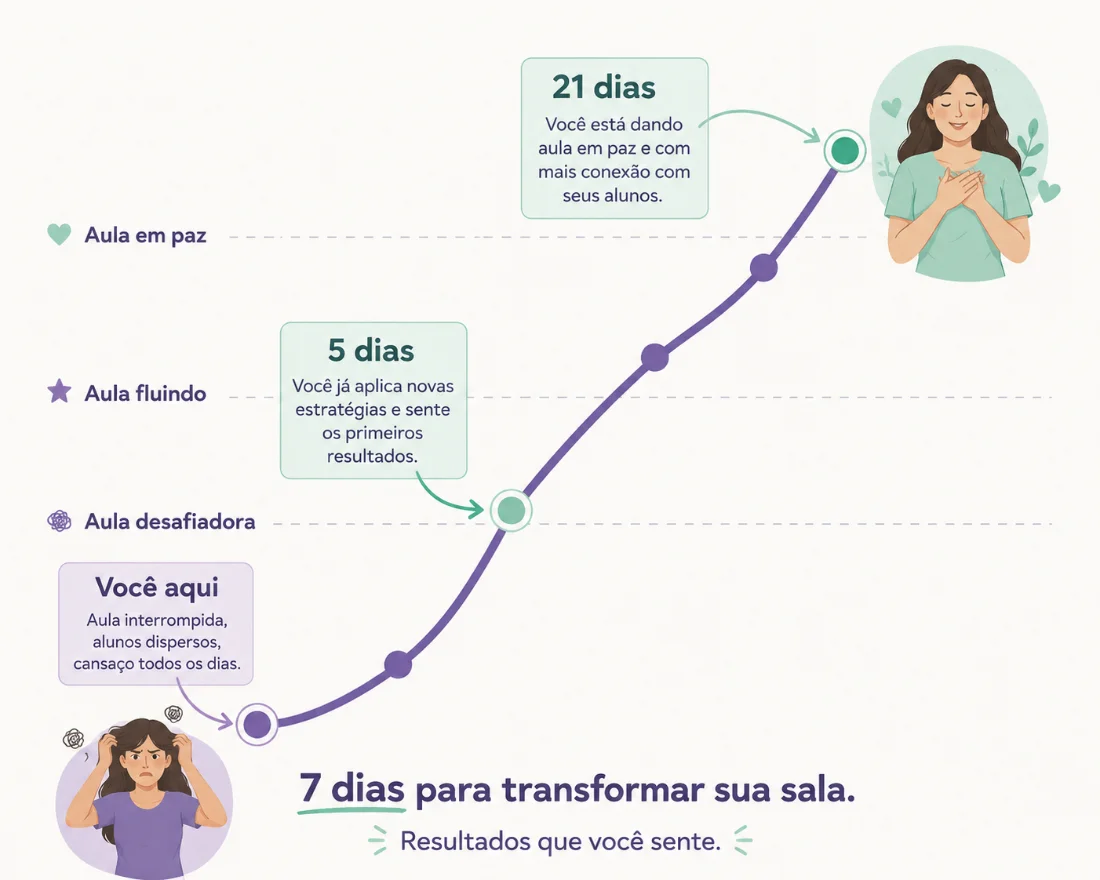
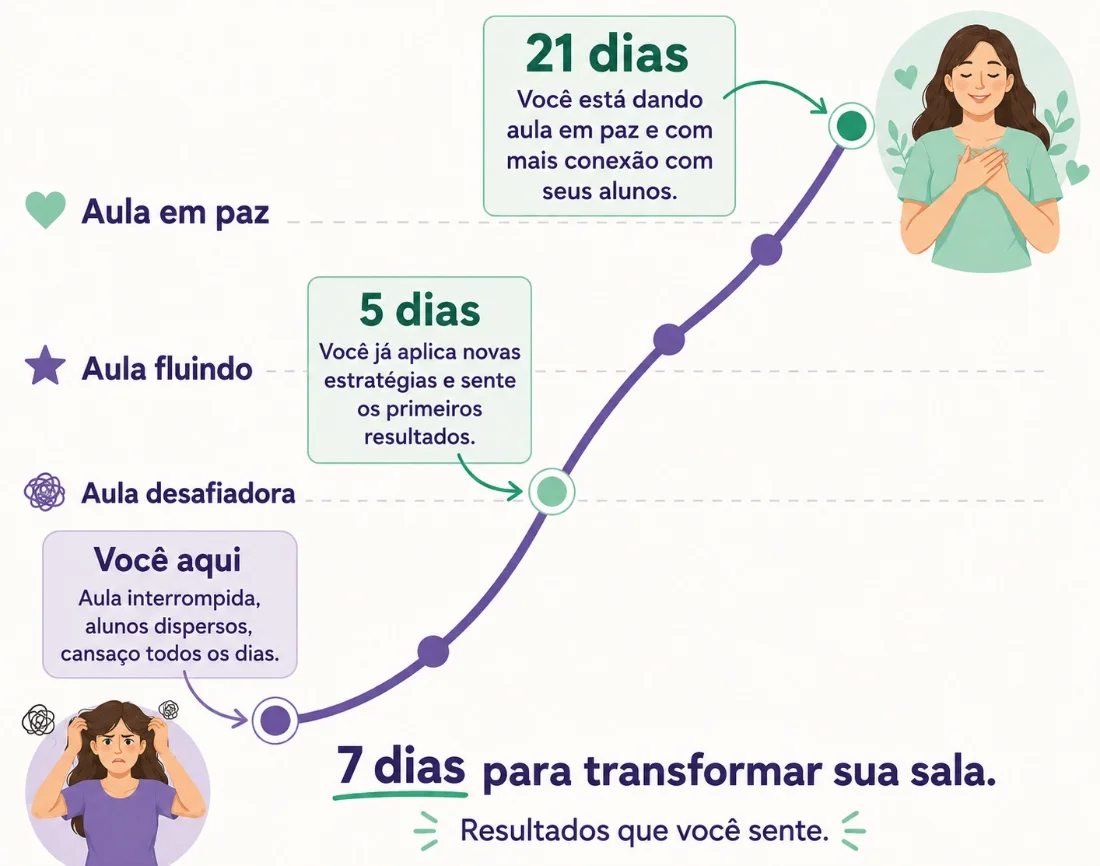
Update value stack section and fix pricing visibility
- Rewrite "O que está incluso" pillars with benefit checklists and
  closing statements for both the 50+ aulas and 27 situações offers
- Replace iceberg and 7-days timeline infographics with refreshed
  versions (foto-9a, foto-11a)
- Fix invisible price text in the receipt/anchoring section (was
  inheriting light text color from the dark section background)

diff --git a/index.html b/index.html
@@ -69,6 +69,7 @@
     text-wrap:balance;
     font-weight:700;
   }
+  h1,h2{text-align:center;}
   p{margin:0 0 1em;}
   ul{margin:0;padding:0;list-style:none;}
   a{color:inherit;}
@@ -265,6 +266,10 @@
     background:var(--mauve-tint);border-radius:var(--radius-l);padding:28px;
   }
   .pillar-num{font-family:"Baloo 2",sans-serif;font-weight:700;font-size:44px;color:var(--mauve-deep);line-height:1;margin-bottom:10px;}
+  .pillar-checklist{display:flex;flex-direction:column;gap:9px;margin:16px 0 0;}
+  .pillar-checklist li{display:flex;gap:9px;align-items:flex-start;font-size:14.5px;color:var(--ink-soft);}
+  .pillar-checklist li svg{flex:none;color:var(--green-deep);margin-top:2px;}
+  .pillar-closing{font-style:italic;font-weight:600;color:var(--ink);font-size:15px;margin:16px 0 0;}
   .pillar-mockup{margin-top:18px;}
   .pillar-mockup img{width:100%;height:auto;display:block;}
 
@@ -411,7 +416,7 @@
     border-bottom:1px dashed var(--line);font-size:15.5px;
   }
   .receipt-row span:first-child{color:var(--ink-soft);}
-  .receipt-row span:last-child{font-weight:700;font-variant-numeric:tabular-nums;white-space:nowrap;}
+  .receipt-row span:last-child{color:var(--ink);font-weight:700;font-variant-numeric:tabular-nums;white-space:nowrap;}
   .receipt-total{
     display:flex;justify-content:space-between;align-items:center;
     margin-top:18px;background:var(--ink);color:var(--paper);
@@ -724,7 +729,7 @@
     <p class="center" style="max-width:640px;margin:12px auto 0;">O Workshop Desafios na Sala de Aula ensina aquilo que você vê — e também aquilo que pode estar acontecendo por baixo da superfície e influenciando os comportamentos da sua turma.</p>
 
     <figure class="iceberg-infographic">
-      <img src="Fotos/foto-9.webp" alt="Infográfico do Iceberg do Comportamento: o que você vê na superfície e o que pode estar acontecendo por baixo" width="1000" height="1000" loading="lazy">
+      <img src="Fotos/foto-9.webp" alt="Infográfico do Iceberg do Comportamento: o que você vê na superfície e o que pode estar acontecendo por baixo" width="1000" height="1113" loading="lazy">
     </figure>
 
   </div>
@@ -760,7 +765,7 @@
     <h2 class="center">Perfeito para Professoras Iniciantes e Experientes!</h2>
 
     <figure class="hero-photo">
-      <img src="Fotos/foto-11.webp" alt="Linha do tempo: em 7 dias, de aula desafiadora para aula em paz" width="1100" height="880" loading="lazy">
+      <img src="Fotos/foto-11.webp" alt="Linha do tempo: em 7 dias, de aula desafiadora para aula em paz" width="1100" height="866" loading="lazy">
     </figure>
 
     <p>Os comportamentos em sala de aula mudaram muito nos últimos anos. Coisas que funcionavam antes podem já não funcionar como funcionavam.</p>
@@ -778,7 +783,16 @@
       <div class="pillar-card">
         <div class="pillar-num">50+</div>
         <h3>Aulas Sobre os Desafios Reais da Sala de Aula</h3>
-        <p style="color:var(--ink-soft);font-size:15px;">Tenha acesso imediato a um treinamento completo, com 7 módulos sobre o que existe por trás do comportamento, preparação da sala, alunos atípicos, motivação, engajamento e aulas práticas — além de apostila e recursos para usar com seus alunos.</p>
+        <p style="color:var(--ink-soft);font-size:15px;">Um passo a passo para você parar de improvisar diante dos comportamentos difíceis e começar a saber o que fazer antes, durante e depois deles.</p>
+        <ul class="pillar-checklist">
+          <li><svg width="18" height="18" viewBox="0 0 24 24" fill="none" stroke="currentColor" stroke-width="2.5" stroke-linecap="round" stroke-linejoin="round"><path d="M20 6 9 17l-5-5"/></svg><span>Dar instruções sem precisar repetir 5 vezes</span></li>
+          <li><svg width="18" height="18" viewBox="0 0 24 24" fill="none" stroke="currentColor" stroke-width="2.5" stroke-linecap="round" stroke-linejoin="round"><path d="M20 6 9 17l-5-5"/></svg><span>Criar uma rotina que os alunos entendam e consigam seguir</span></li>
+          <li><svg width="18" height="18" viewBox="0 0 24 24" fill="none" stroke="currentColor" stroke-width="2.5" stroke-linecap="round" stroke-linejoin="round"><path d="M20 6 9 17l-5-5"/></svg><span>Reduzir conversas, interrupções e agitação</span></li>
+          <li><svg width="18" height="18" viewBox="0 0 24 24" fill="none" stroke="currentColor" stroke-width="2.5" stroke-linecap="round" stroke-linejoin="round"><path d="M20 6 9 17l-5-5"/></svg><span>Agir quando um aluno se desregula ou entra em crise</span></li>
+          <li><svg width="18" height="18" viewBox="0 0 24 24" fill="none" stroke="currentColor" stroke-width="2.5" stroke-linecap="round" stroke-linejoin="round"><path d="M20 6 9 17l-5-5"/></svg><span>Lidar melhor com TDAH, TOD, autismo e alunos não verbais</span></li>
+          <li><svg width="18" height="18" viewBox="0 0 24 24" fill="none" stroke="currentColor" stroke-width="2.5" stroke-linecap="round" stroke-linejoin="round"><path d="M20 6 9 17l-5-5"/></svg><span>Conseguir ensinar sem passar a aula apagando incêndios</span></li>
+        </ul>
+        <p class="pillar-closing">Para você voltar a sentir que é professora da turma — e não apenas alguém tentando mantê-la sob controle.</p>
         <div class="pillar-mockup">
           <img src="Fotos/foto-12.webp" alt="Aulas e materiais do Workshop abertos no computador e no celular" loading="lazy">
         </div>
@@ -786,7 +800,17 @@
       <div class="pillar-card">
         <div class="pillar-num">27</div>
         <h3>Situações Reais Respondidas pela Hena</h3>
-        <p style="color:var(--ink-soft);font-size:15px;">Tenha respostas práticas para situações que acontecem de verdade: aluno que foge da sala, não quer participar, não acredita em si mesmo, não consegue trabalhar em grupo, crises, bullying, desmotivação, turmas grandes e até conversas difíceis com as famílias.</p>
+        <p style="color:var(--ink-soft);font-size:15px;">Porque algumas situações são tão específicas que você não quer mais teoria. Você quer abrir uma aula e descobrir: "Hena, o que eu faço quando isso acontece?"</p>
+        <ul class="pillar-checklist">
+          <li><svg width="18" height="18" viewBox="0 0 24 24" fill="none" stroke="currentColor" stroke-width="2.5" stroke-linecap="round" stroke-linejoin="round"><path d="M20 6 9 17l-5-5"/></svg><span>O aluno foge da sala</span></li>
+          <li><svg width="18" height="18" viewBox="0 0 24 24" fill="none" stroke="currentColor" stroke-width="2.5" stroke-linecap="round" stroke-linejoin="round"><path d="M20 6 9 17l-5-5"/></svg><span>Não quer participar porque acha a atividade "chata"</span></li>
+          <li><svg width="18" height="18" viewBox="0 0 24 24" fill="none" stroke="currentColor" stroke-width="2.5" stroke-linecap="round" stroke-linejoin="round"><path d="M20 6 9 17l-5-5"/></svg><span>A turma é grande e você não consegue dar atenção a todos</span></li>
+          <li><svg width="18" height="18" viewBox="0 0 24 24" fill="none" stroke="currentColor" stroke-width="2.5" stroke-linecap="round" stroke-linejoin="round"><path d="M20 6 9 17l-5-5"/></svg><span>Surgem fofocas, provocações ou bullying</span></li>
+          <li><svg width="18" height="18" viewBox="0 0 24 24" fill="none" stroke="currentColor" stroke-width="2.5" stroke-linecap="round" stroke-linejoin="round"><path d="M20 6 9 17l-5-5"/></svg><span>Uma criança entra em crise no meio da aula</span></li>
+          <li><svg width="18" height="18" viewBox="0 0 24 24" fill="none" stroke="currentColor" stroke-width="2.5" stroke-linecap="round" stroke-linejoin="round"><path d="M20 6 9 17l-5-5"/></svg><span>Você precisa conversar com pais difíceis</span></li>
+          <li><svg width="18" height="18" viewBox="0 0 24 24" fill="none" stroke="currentColor" stroke-width="2.5" stroke-linecap="round" stroke-linejoin="round"><path d="M20 6 9 17l-5-5"/></svg><span>Você sente que fez tudo errado e quer recuperar a conexão com a turma</span></li>
+        </ul>
+        <p class="pillar-closing">É como ter uma biblioteca de respostas para aqueles momentos em que você pensa: "Tá… e agora, o que eu faço?"</p>
         <div class="pillar-mockup">
           <img src="Fotos/foto-13.webp" alt="Hena respondendo a uma situação real em vídeo" loading="lazy">
         </div>
